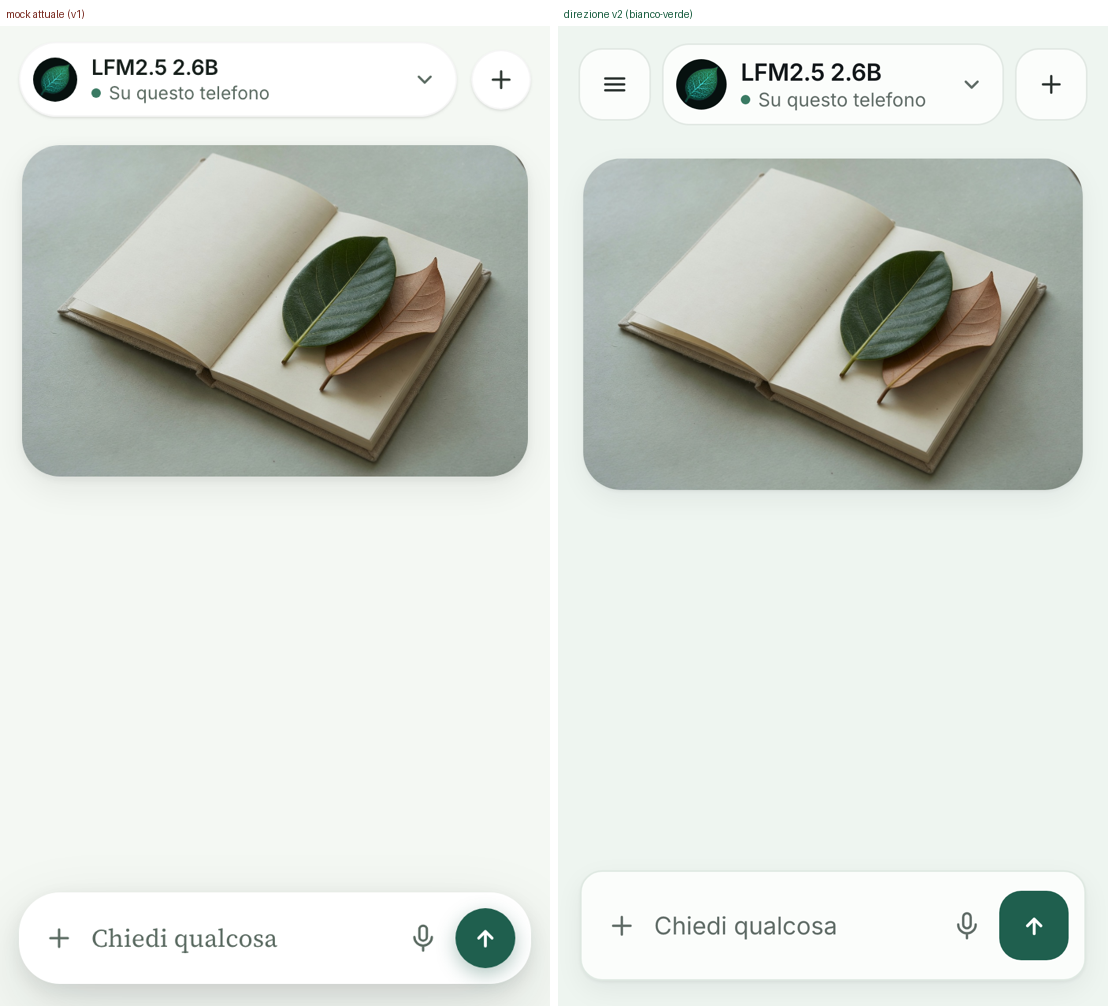
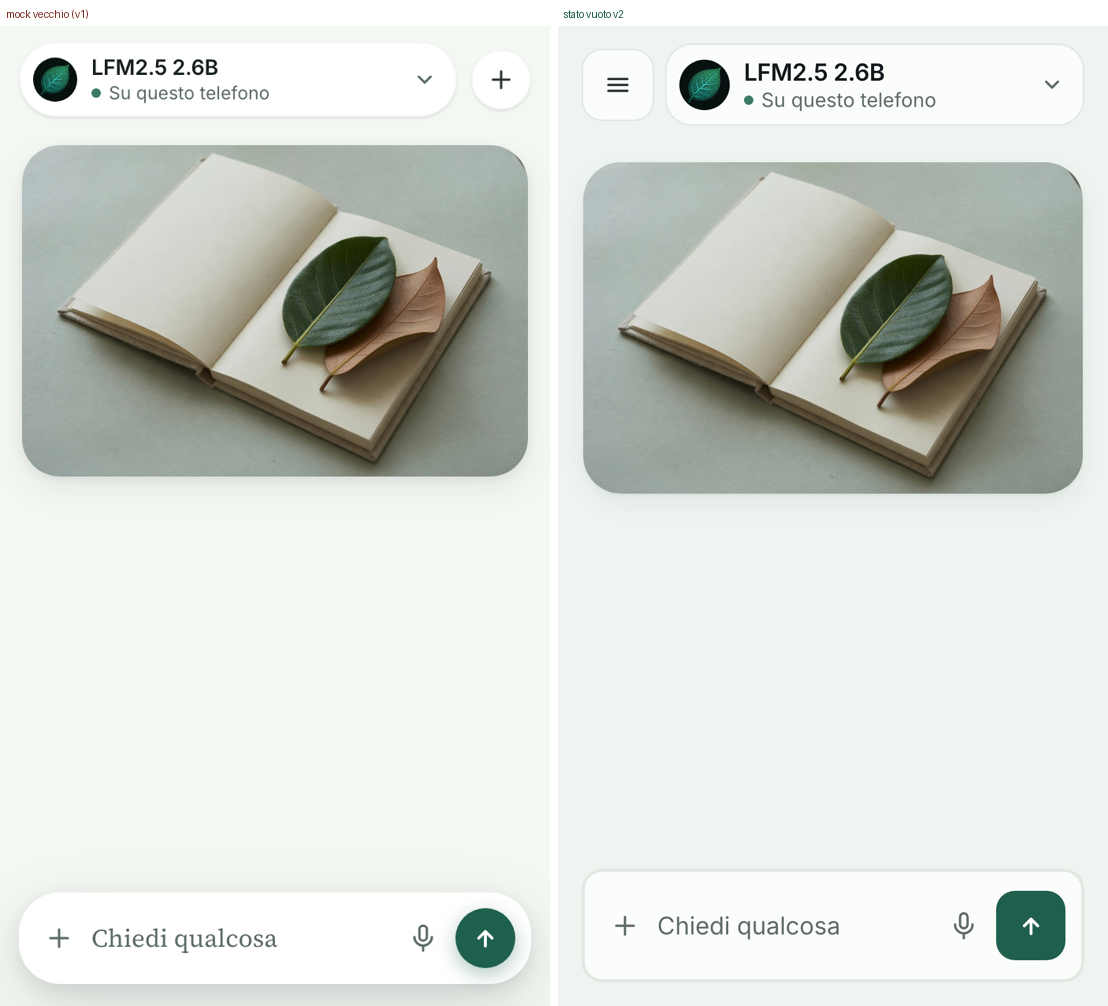
design: strip without the spare '+', a status row instead of the cloud, and rule 1.6
The owner read the v2 chat and named two defects: a large '+' in the strip and a
toy feel. Both are answered in the mock and in DESIGN-V2.md.

- The strip keeps the menu button and the model pill only; a second door to a new
  chat was redundant beside the menu's primary action.
- The thought 'cloud' stops being a speech bubble with three trailing circles: it
  is a status row — a live dot, a faded italic fragment, a Mostra text button.
- The sources and the tool rows become lines of text with mono indices and
  separators instead of pills, and the composer is a rectilinear field with a
  44 px square-radius send rather than a floating pill.
- DESIGN-V2.md gains 1.6 'What is not decoration' (no metaphors, no pill soup,
  type carries the hierarchy, one filled green per screen) and the strip and
  thinking rows are corrected in sections 2 and 3.1.

repo kalsa-ux, branch ux-2026-09-21, parent 102f810

diff --git a/docs/design/kalsa-mock-v2.html b/docs/design/kalsa-mock-v2.html
@@ -720,39 +720,64 @@ if (mode === "quote") {
 :root{
   --page:#eef5f0; --surface:#fbfdfb; --muted:#eaf1ec;
   --line:#dfe9e2; --line2:#cfdcd4;
-  --brand:#1f5f4e; --brand-deep:#123f32;
+  --brand:#1f5f4e; --brand-deep:#123f32; --accent:#1f5f4e;
   --ink:#12171a; --ink2:#2b3330; --ink3:#5f6b66;
   --e1:0 0 0 1px rgba(18,23,26,.055);
   --e2:0 1px 2px rgba(18,23,26,.05), 0 6px 18px rgba(18,23,26,.06);
   --e3:0 2px 6px rgba(18,23,26,.06), 0 18px 44px rgba(18,23,26,.12);
-  --r-btn:14px; --r-card:16px; --r-sheet:22px; --r-bub:18px; --r-field:14px;
+  --r-btn:12px; --r-card:16px; --r-sheet:22px; --r-bub:14px; --r-field:12px;
 }
-body{background:var(--page)}
-.head{padding:12px 14px 14px;background:var(--page)}
+body{background:var(--page);font-size:15px}
+/* strip: menu + pill, nient'altro. Il "+" e' ridondante: la Nuova chat e' la CTA del menu */
+.head{padding:12px 16px 14px;background:var(--page)}
+.head .iconbtn:last-of-type{display:none}
 .pick{border:0;box-shadow:var(--e1);border-radius:var(--r-card);padding:8px 12px 8px 8px}
 .pick .mark{width:32px;height:32px}
 .pick b{font-size:15px;font-weight:600}
-.pick small{font-size:12px}
+.pick small{font-size:12.5px}
 .iconbtn{width:44px;height:44px;border-radius:var(--r-btn);border:0;box-shadow:var(--e1)}
-.page{padding:4px 16px 0}
-.stream{gap:30px}
-.me{background:#cfe3d6;border-radius:var(--r-bub);padding:12px 16px;font-size:15.5px;box-shadow:none}
-.ai .txt{font-size:17px;line-height:1.66}
-.tt{font-size:12px;padding:6px 12px;background:var(--g50)}
-.src{border-radius:10px;box-shadow:none;border:1px solid var(--line);font-size:12px;padding:7px 12px;background:var(--surface)}
+/* transcript: meno decorazione, piu' gerarchia */
+.page{padding:6px 16px 0}
+.stream{gap:32px}
+.me{background:#cfe3d6;border-radius:var(--r-bub);padding:12px 16px;font-size:15.5px;line-height:1.5;box-shadow:none}
+.ai .txt{font-size:17px;line-height:1.68}
+/* la nuvoletta non e' piu' un fumetto: e' una riga di stato con un punto vivo */
+.cloud{margin:2px 0}
+.cloud .bub{background:transparent;box-shadow:none;border-radius:0;padding:0;gap:12px;align-items:center}
+.cloud .bub::before,.cloud .bub::after{display:none}
+.cloud .tail{display:none}
+.face{font-family:var(--read);font-style:italic;font-size:13.5px;color:var(--ink3);max-width:230px}
+.face::before{content:"";display:inline-block;width:7px;height:7px;border-radius:99px;background:var(--accent);margin-right:9px;vertical-align:middle}
+.tg{font-size:12.5px;font-weight:600;color:var(--accent)}
+/* i tool: una riga quieta, non pastiglie */
+.tools{gap:0;align-items:baseline}
+.tt{background:transparent;border:0;padding:0;font-size:12.5px;font-weight:500;color:var(--ink3);gap:7px}
+.tt svg{width:14px;height:14px;color:var(--accent)}
+.tt+.tt::before{content:"·";color:var(--line2);margin:0 9px}
+/* le fonti: numeri in mono, domini in secondario, separati da un punto */
+.srcs{gap:0;align-items:baseline;flex-wrap:wrap}
+.src{background:transparent;border:0;box-shadow:none;padding:0;font-size:12.5px;color:var(--ink3);gap:5px}
+.src i{font-family:ui-monospace,Menlo,monospace;font-weight:600;color:var(--accent);font-size:11.5px}
+.src+.src::before{content:"·";color:var(--line2);margin:0 9px}
+.src.off{opacity:1;color:var(--ink3);text-decoration:none;border:0;background:transparent}
+/* azioni: icone, nessun contenitore se non dopo un tocco */
+.acts{gap:2px}
 .act{width:36px;height:36px;border-radius:10px}
-.act.solid{box-shadow:none;border:1px solid var(--line);border-radius:10px}
+.act.solid{box-shadow:var(--e1);border:0;border-radius:10px}
 .app{border-radius:var(--r-card);box-shadow:var(--e1)}
-.dock{padding:10px 14px 16px;background:linear-gradient(180deg,rgba(238,245,240,0),var(--page) 42%)}
-.field{border:1px solid var(--line);border-radius:var(--r-field);box-shadow:var(--e2);padding:12px 10px 12px 16px;background:var(--surface)}
-.field .ph{font-family:var(--ui);font-size:15.5px}
+.app .go{background:transparent;padding:0;font-size:12.5px;color:var(--accent)}
+/* composer: campo retto, non una pillola galleggiante */
+.dock{padding:12px 16px 16px;background:linear-gradient(180deg,rgba(238,245,240,0),var(--page) 42%)}
+.field{border:1px solid var(--line);border-radius:var(--r-field);box-shadow:var(--e1);padding:12px 10px 12px 16px;background:var(--surface)}
+.field .ph{font-family:var(--ui);font-size:15.5px;color:var(--ink3)}
 .field .send{width:44px;height:44px;border-radius:var(--r-btn);background:var(--brand);box-shadow:none}
-.field .send.held{background:var(--muted);color:var(--ink3)}
-.chip{border:1px solid var(--line);box-shadow:none;border-radius:10px;font-size:12px;padding:7px 11px;background:var(--surface)}
+.field .send.held{background:var(--tint);color:var(--ink3)}
+.chip{border:1px solid var(--line);box-shadow:none;border-radius:8px;font-size:12.5px;padding:6px 10px;background:var(--surface)}
+/* sheets e schermate */
 .sheet{border-radius:var(--r-sheet);padding:20px 16px 16px;background:var(--surface)}
 .sheet h2{font-family:var(--ui);font-size:20px;font-weight:700}
 .opt{background:var(--surface);border:1px solid var(--line);border-radius:var(--r-card);padding:14px}
-.opt.on{border-color:var(--brand);background:var(--g50)}
+.opt.on{border-color:var(--brand);background:var(--tint)}
 .drawer{background:var(--surface);padding:16px 16px 18px;gap:16px}
 .dclose{width:38px;height:38px;box-shadow:var(--e1);border-radius:var(--r-btn)}
 .dhead .mark{width:36px;height:36px}
@@ -760,19 +785,20 @@ body{background:var(--page)}
 .newrow{border-radius:var(--r-btn);padding:15px 18px;font-size:15px;background:var(--brand);box-shadow:none}
 .dlbl{font-size:11px;letter-spacing:.09em;color:var(--ink3)}
 .drow{padding:14px 12px;border-radius:var(--r-btn);font-size:15px}
-.drow.on{background:var(--g50);font-weight:600}
+.drow.on{background:var(--tint);font-weight:600}
 .titlebar b{font-family:var(--ui);font-size:24px;font-weight:700}
 .page2{gap:16px}
 .grp{border-radius:var(--r-card);box-shadow:var(--e1);background:var(--surface)}
 .grp .gt{font-size:11px;letter-spacing:.09em;padding:14px 16px 6px;color:var(--ink3)}
 .srow{padding:15px 16px;gap:14px;border-top:1px solid var(--line)}
 .srow b{font-size:15px}
-.srow small{font-size:12px}
-.srow .si{border-radius:12px;background:var(--g50)}
+.srow small{font-size:12.5px}
+.srow .si{border-radius:12px;background:var(--tint)}
 .sw2{width:48px;height:28px}
-.badge2,.btn2{border-radius:8px}
-.hold{border-radius:var(--r-card);box-shadow:none;border:1px solid var(--wait-line)}
-.cav{border-radius:12px;background:var(--g50)}
+.badge2,.btn2{border-radius:8px;background:var(--tint)}
+.hold{border-radius:var(--r-card);box-shadow:none;border:1px solid var(--line);background:var(--surface)}
+.hold .ib{background:var(--wait-bg);color:var(--wait-ink)}
+.cav{border-radius:12px;background:var(--tint)}
 .preview{font-size:16px}
 .rm{background:var(--surface)}
 </style>

diff --git a/docs/DESIGN-V2.md b/docs/DESIGN-V2.md
@@ -89,7 +89,19 @@ lucide, **1.75 stroke**, 20 px inside rows and controls, 18 px inside chips, 24 
 own leading action. Every interactive node carries a `testID` and an accessible name, and a **48 dp
 touch box** (the painted control may be smaller: 44 px send, 36 px ghost action, 32 px chip).
 
-### 1.5 Motion
+### 1.6 What is not decoration
+
+A rule the v2 pass was written against, because the first version of it read as a toy:
+
+- **No metaphors.** The thought "cloud" is not a cloud: it is a status row with a dot. Nothing in the
+  interface is shaped like an object it does not literally represent.
+- **No pill soup.** A container is a hairline, not a shadow, unless the thing floats over content. A
+  row of metadata (sources, tools) is text with separators and mono indices, not a row of pills.
+- **Type carries the hierarchy, not ornament.** When a screen needs emphasis, the size or the weight
+  moves; it is never a tint, an emoji, a dashed border or a gradient.
+- **One filled green per screen.** It marks the single primary action.
+
+### 1.7 Motion
 
 Inherited from `DESIGN.md` 2.11 and unchanged: the answer enters 200–250 ms fade + 8–12 dp rise
 (`cubic-bezier(0,0,.38,.9)`); the streaming caret pulses 1 → 0.35 → 1 over 1 s, linear, frozen solid as
@@ -128,7 +140,7 @@ Each entry is the anatomy a coder implements; states are named because a missing
 | **Answer** | no container: `surface` is the page; `reading` text, 0 left padding beyond the gutter | streaming (caret), stopped (see below), error |
 | **Source chip** | 32 dp, radius 10, `surface`, 1 px `line`, 12 px label, a `mono` index in `accent` | live (tappable), unavailable (dashed `line2`, `ink3`) |
 | **Tool row** | `tint` pill, 28 dp, 12 px label, 14 px icon in `accent`, grouped into one wrapping row per turn | running, done |
-| **Thinking card** | `surface`, radius 16, `e1`, a 16 dp row (title + value + chevron), a `serif` italic face line with a fade, and the trail of three circles below-left | live (pulsing face), collapsed, expanded |
+| **Thinking card** | **a status row, not a bubble**: a 7 px `accent` dot, a 13.5 px Source Serif italic fragment of the current thought with a right fade, and a `Mostra` text button in `accent`; no container, no shadow, no tail | live (the dot pulses), expanded (the full thought in a `surface` card) |
 | **Stop marker** | a row in `wait` colours with a 20 px icon and 13 px text, placed where the answer stopped | stopped by the user, stopped by the engine |
 | **Attachment chip** | 36 dp, radius 10, `surface`, 1 px `line`, 16 px file icon, filename in `headline`, trailing `×` | uploading, ready, failed |
 | **Progress** | 4 px track radius 999, `tint` ground, `brand` fill, no shadow; the percentage always appears as text beside it | determinate, indeterminate |
@@ -143,9 +155,10 @@ Each entry is the anatomy a coder implements; states are named because a missing
 
 **The strip** — 56 dp: the drawer's icon button (ghost, 44 px), the **model pill** (44 dp, `surface`,
 radius 14, `e1`: a 32 px mark, the model's short name in `bodyStrong`, and a second line with a 6 px
-`accent` dot plus where it runs — "Su questo telefono" / "Sul PC"), a chevron, then a 44 px ghost `+`.
-**Nothing else lives in the strip**: the web switch moves to Settings › Privacy, and the model's
-progress, error and battery lines live inside the pill's own sheet, opened by tapping it.
+`accent` dot plus where it runs — "Su questo telefono" / "Sul PC"), and a chevron. **Nothing else
+lives in the strip**: no `+` (the new chat is the menu's primary action, and a second door to it was
+redundant), no web switch (it moves to Settings › Privacy), and the model's progress, error and
+battery lines live inside the pill's own sheet, opened by tapping it.
 
 **The transcript** — the answer has no container. States, each with its line:
 empty (the photograph alone), waiting for the first token (the strip of three dots and the composer's
